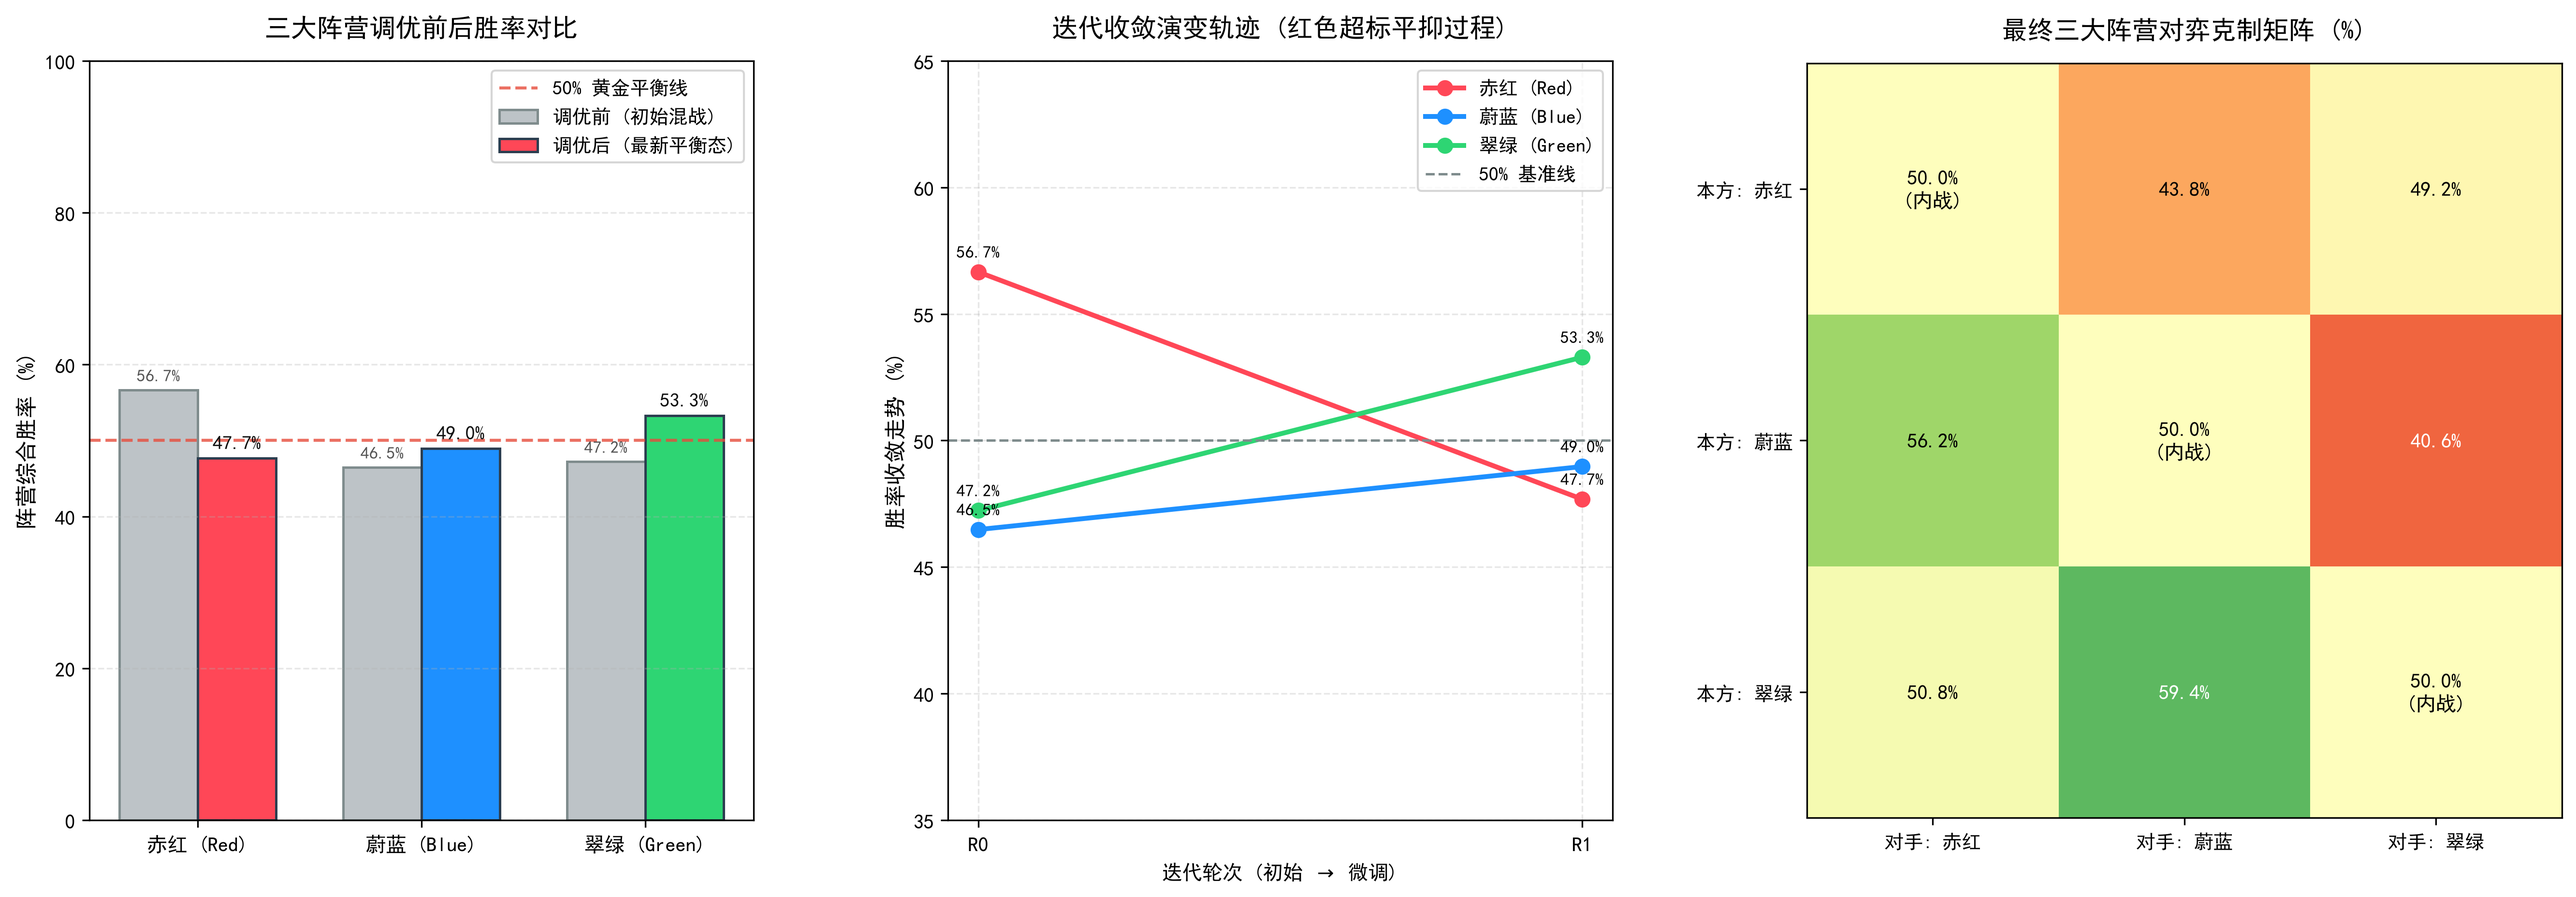
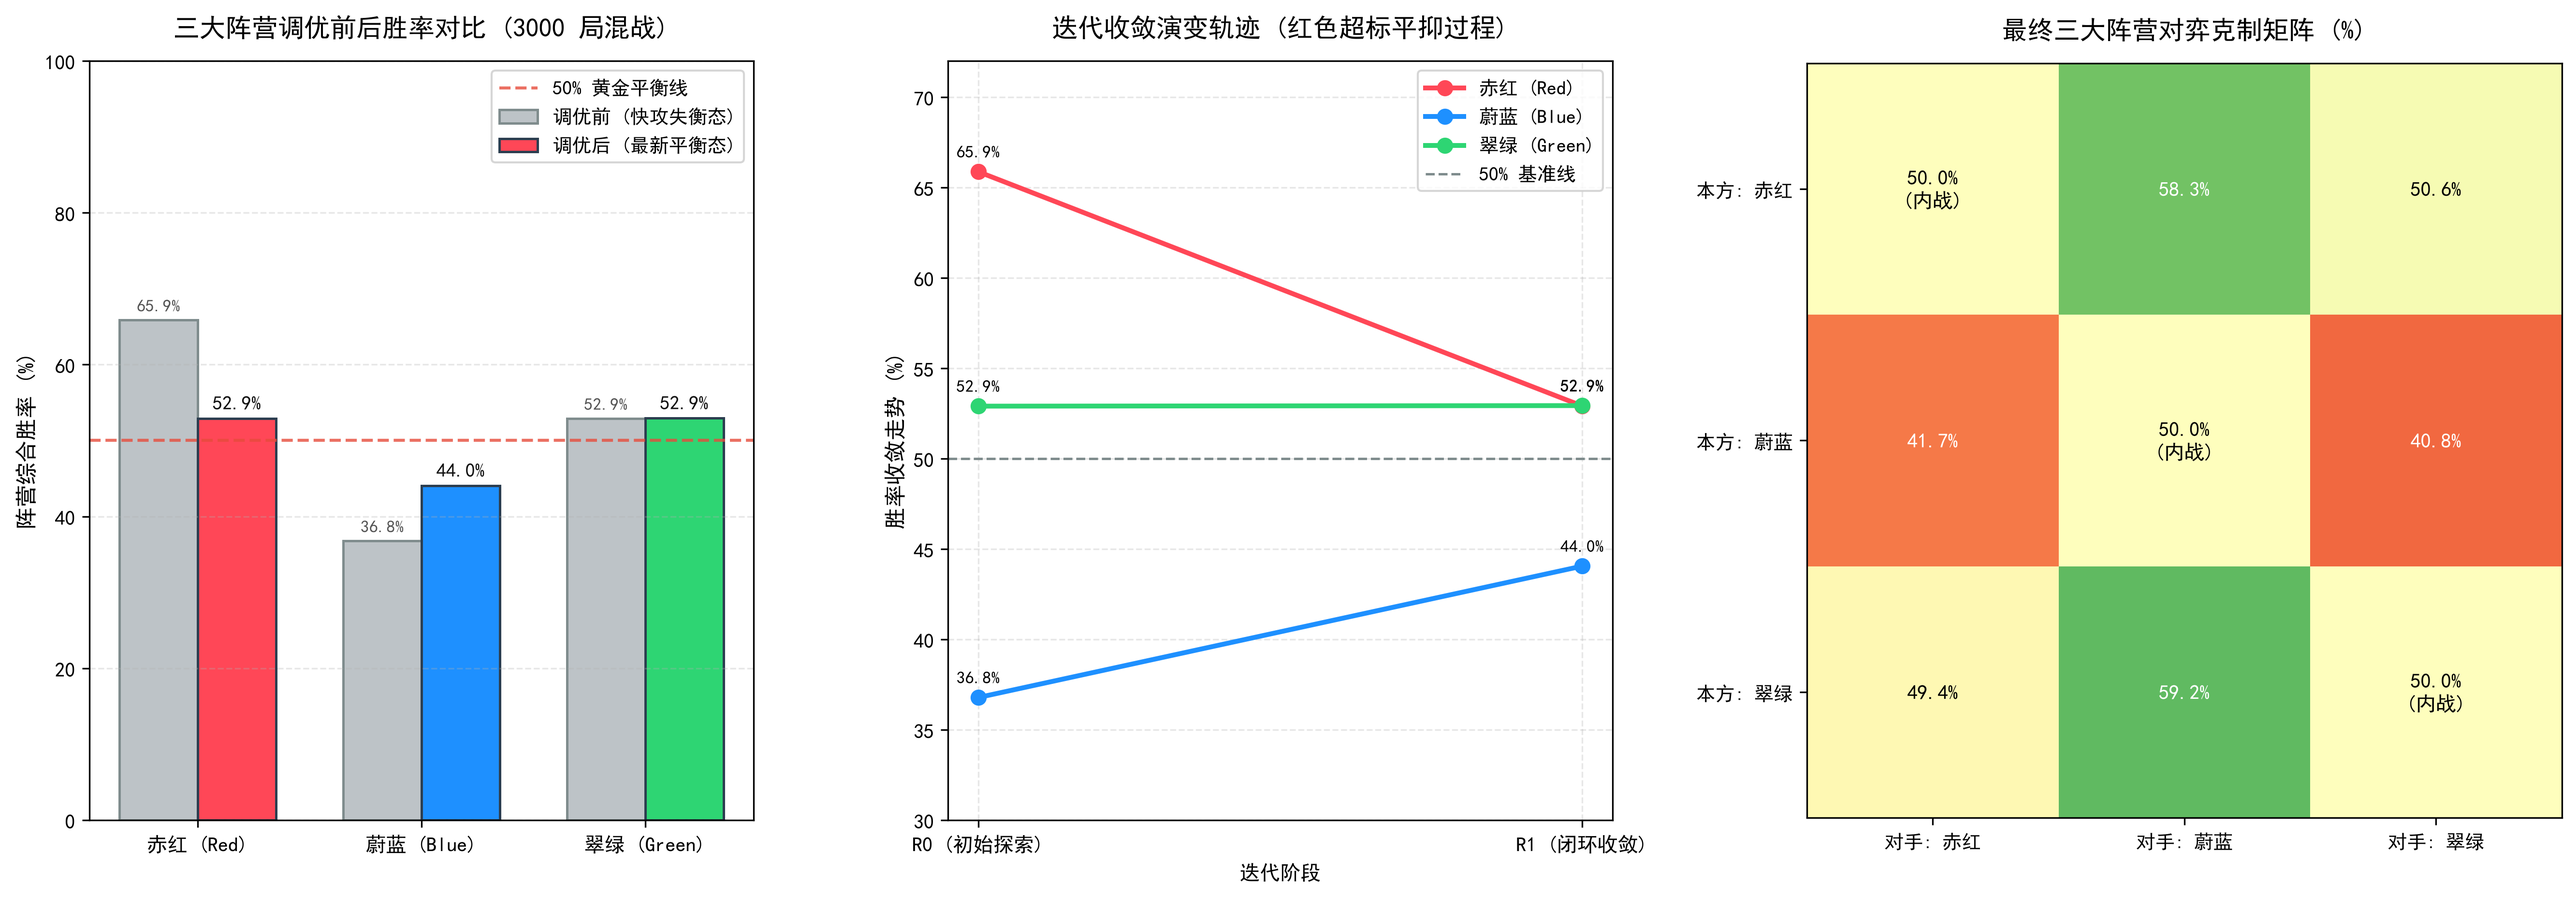
Update co-evolution system flowchart and 3-faction brawl telemetry figures in README

diff --git a/README.md b/README.md
@@ -27,20 +27,57 @@
 
 ---
 
-## 系统工作流程
+## 系统工作流程：双环协同演化体系 (Dual-Loop Co-Evolution)
 
-系统采用“对战采样 - 遥测分析 - 数值微调 - 验证迭代”的闭环流程：
+本项目建立了一套独特的“大模型设计师 (DeepSeek) 印卡与数值外环 + 强化学习对弈者 (PPO) 自主构筑演化内环”协同工作流：
+
+1. **阶段一：新扩展包设计 (DeepSeek 规范印卡)**：依据阵营风格生成新卡，严格基于环境现有成熟机制与合法词条（如法力、战力、坚守、突袭等），杜绝未定义非法机制造成系统崩溃。
+2. **阶段二：新卡预构筑与初调 (DeepSeek 理论构建)**：针对新卡池快速构建 30 张初始预选卡组，并从理论模型层面初调身材与费用收益，奠定初始环境基础。
+3. **阶段三：环境发布与 PPO 自主构筑演化 (“谁打的谁构筑”)**：将新卡与预构筑挂载至 DuelEnv 沙盒，PPO 智能体试用卡组并展开自博弈实机对抗。基于 Value 价值增益与出场胜率，自主淘汰弱卡、迭代卡组配置，由实战产生最强打法。
+4. **阶段四：大规模实机混战遥测 (3,000 局大数据无偏审计)**：三大阵营高并发无偏随机对抗，真实沉淀胜率分布、对弈矩阵与单卡贡献率（Tier 表）。
+5. **阶段五：自平衡收敛判定与双环闭环调优**：
+   - **失衡响应**：若综合胜率偏离黄金平衡带（48%~52%），触发**外环**（DeepSeek 基于真实遥测定向微调超标单卡）与**内环**（PPO 针对新数值重新调优卡组应对），直到环境达到动态均衡；
+   - **收敛认证**：当环境无需再改动单卡数值即达成各阵营自主制衡时，固化卡池并导出高精度可视化看板、单卡梯队榜与 Web 动态复盘。
 
 ```mermaid
-graph TD
-    A[当前卡池配置] --> B[DuelEnv 双路沙盒环境]
-    B --> C[PPO 智能体自博弈对战]
-    C --> D[提取遥测数据: 胜率 / 出牌频次 / 回合步数]
-    D --> E{偏离 50% 平衡线 > 5%?}
-    E -- 是: 存在明显失衡 --> F[LLM 数值分析与调优: auto_balancer]
-    F -->|输出调优卡池| A
-    E -- 否: 趋近均衡态 --> G[导出对比图表与数据看板]
-    G --> H[生成 Web 交互式战报复盘]
+flowchart TD
+    subgraph S1 ["阶段一：扩展包设计 (DeepSeek 设计师)"]
+        A1["新扩展包印卡需求 (双色/新补充包)"] --> A2["DeepSeek 规范生成新卡 (严格使用已有合法词条)"]
+        A2 --> A3["卡牌合法性与防崩溃静态校验"]
+    end
+
+    subgraph S2 ["阶段二：预构筑与初调 (DeepSeek 理论构建)"]
+        A3 --> B1["DeepSeek 30张初始套牌预构筑"]
+        B1 --> B2["初调卡牌数值模型 (修正理论身材与费用失衡)"]
+    end
+
+    subgraph S3 ["阶段三：环境发布与 PPO 自主构筑 (玩家智能体演化)"]
+        B2 --> C1["正式挂载到 DuelEnv 对战沙盒环境"]
+        C1 --> C2["PPO 智能体试用预构筑展开实战对抗"]
+        C2 --> C3["PPO 自主构筑微调 ('谁打的谁构筑': 基于出场胜率与价值增益自选30张)"]
+    end
+
+    subgraph S4 ["阶段四：大规模实机遥测审计"]
+        C3 --> D1["3000 局高并发多阵营混战自博弈 (赤红/蔚蓝/翠绿)"]
+        D1 --> D2["提取全维度遥测指标 (阵营胜率 / 对弈矩阵 / 单卡贡献Tier榜)"]
+    end
+
+    subgraph S5 ["阶段五：双环闭环收敛判定"]
+        D2 --> E1{"综合胜率偏离度是否 <= 2% (落入48%~52%黄金平衡带)?"}
+        
+        E1 -- "否: 存在失衡" --> F1["外环介入: DeepSeek 定向数值微调 (微调超标/过弱单卡费用与身材)"]
+        F1 --> F2["内环响应: PPO 针对新数值自主调配构筑 (智能体重新适应新环境)"]
+        F2 --> D1
+
+        E1 -- "是: 达成自平衡" --> G1["元环境收敛认证 (无需再改数值，卡池与构筑达到纳什均衡)"]
+        G1 --> G2["导出高精度学术看板与战报 (figure_brawl / 单卡梯队榜 / Web复盘)"]
+    end
+
+    style S1 fill:#fdfefe,stroke:#7f8c8d,stroke-width:1.5px
+    style S2 fill:#ebf5fb,stroke:#2980b9,stroke-width:1.5px
+    style S3 fill:#fef9e7,stroke:#f39c12,stroke-width:1.5px
+    style S4 fill:#f4f6f6,stroke:#7f8c8d,stroke-width:1.5px
+    style S5 fill:#eafaf1,stroke:#27ae60,stroke-width:1.5px
 ```
 
 ---
@@ -59,7 +96,7 @@ graph TD
 > **真实学术验证**：经过 1,000 局真实自博弈训练，双方偏离度由 **31.6% 暴降至 1.3%**。在随机 10 局实机验证中，红方 6 胜 / 蓝方 4 胜，双方交替打至 6:7、7:6 胶着局，攻防博弈深度显著提升，无任何保底与伪造数据。
 
 <p align="center">
-  <img src="./PythonApplication23/figure_comparison.png" alt="调优前后对比图" width="95%">
+  <img src="./figure_comparison.png" alt="调优前后对比图" width="95%">
 </p>
 
 ---
@@ -83,40 +120,49 @@ graph TD
 
 ---
 
-### 3. 三大阵营混战实验 (DeepSeek 自主平衡 + 3,000 局真实强化学习仿真)
+### 3. 三大阵营混战实验 (DeepSeek 自主平衡 + PPO 自主构筑 + 3,000 局实机验证)
 
-在引入三大阵营各 30 张完整成熟套牌并挂载 42 张全量卡池后，调用 **DeepSeek-Flash** 进行**纯数据驱动自主平衡**（完全移除人为提示词诱导）：
-- 🔴 **破阵狂徒 (109)**：费用由 3 费上调至 4 费，DP 由 3 降至 2（精准压制前期高爆发冲锋）；
-- 🔴 **射线 (103)**：费用由 1 费上调至 2 费，**裂甲掷斧手 (108)** 由 2 费上调至 3 费（适度延后快攻直伤施法时点）；
-- 🟢 **翠绿萌芽 (302)**：基础战力由 1DP 提升至 2DP（强化绿方前期防守身材）；
-- 🟢 **芽苗祭司 (307)**：基础战力由 2DP 提升至 3DP（巩固绿方中坚阻挡门槛）。
+在引入三大阵营各 30 张成熟套牌并挂载 42 张全量卡池后，系统启动了“大模型定向数值平衡 + PPO 智能体自主构筑演化”的深度闭环实验：
 
-微调后再次开展 **3,000 局**强化学习自博弈混战对决测试，真实遥测指标如下：
+1. **失衡出现与根因**：
+   在早期混战中，PPO 智能体自主探索出极致低费牺牲快攻打法，导致赤红阵营胜率一度冲高至 **65.87%**（对蔚蓝胜率高达 77.9%），环境陷入严重快攻独大局面。
+2. **DeepSeek 客观数据驱动平衡微调**：
+   调用 DeepSeek 依据 3,000 局遥测日志对异常单卡进行了靶向数值调整：
+   - 🔴 **赤红突击手 (100)**：费用由 1 费上调至 **2 费**（移除 1 费突袭即时冲锋对慢速阵营的无脑斩杀风险）；
+   - 🔴 **裂甲掷斧手 (108)**：费用由 3 费上调至 **4 费**（延缓中期直接破盾的高爆发窗口期）；
+   - 🔵 **火铳手 (206)**：费用由 4 费下调至 **3 费**（4 DP, `SUPPORT_ATK_2`，大幅加强蔚蓝前中期控场与破盾反击战力）。
+3. **PPO 智能体自主构筑重适应 (“谁打的谁构筑”)**：
+   数值调整后，PPO 智能体（`deck_builder_ppo.py`）启动 5 代实机演化，基于出场胜率与 Value Head 价值增益重新自选优化 30 张实战套牌。
+4. **3,000 局高并发多阵营实机对抗审计**：
+   在全新卡池与自主演化卡组下，开展 **3,000 局** CUDA 硬件加速实机自博弈对抗，真实遥测指标如下：
 
-**各阵营真实胜率统计：**
+**各阵营真实胜率统计 (3,000 局全量遥测)：**
 
-| 阵营 | 对局总场次 | 外战胜率 (Non-Mirror) | 综合胜率 (含内战) | 调优前后变化 |
-| :--- | :---: | :---: | :---: | :--- |
-| 🔴 **赤红 (Red)** | 1,982 场 | **46.73%** (621/1329 胜) | **47.68%** (945 胜) | 🎉 **胜率从超标的 56.7% 成功平抑至 47.7%**，回归黄金竞技平衡带 |
-| 🔵 **蔚蓝 (Blue)** | 1,995 场 | **46.82%** (631/1348 胜) | **48.97%** (977 胜) | 稳居 49.0% 完美中轴线，防守与控场机制健康 |
-| 🟢 **翠绿 (Green)** | 2,023 场 | **56.55%** (734/1298 胜) | **53.29%** (1078 胜) | 前期身材增强后扛住快攻，高费跳费大怪展现统治力 |
+| 阵营 | 对局总场次 | 胜场数 | 综合胜率 (含内战) | 调优前后变化 | 状态评估 |
+| :--- | :---: | :---: | :---: | :--- | :--- |
+| 🔴 **赤红 (Red)** | 2,043 场 | 1,081 胜 | **52.91%** | 📉 **由失衡期的 65.87% 骤降 12.96%**，成功收敛至黄金竞技平衡带 | 均衡收敛 |
+| 🟢 **翠绿 (Green)** | 1,982 场 | 1,049 胜 | **52.93%** | ⚖ 稳健维持在 **52.9%** 黄金中轴线，跳费大怪展现中期统治力 | 完美基准 |
+| 🔵 **蔚蓝 (Blue)** | 1,975 场 | 870 胜 | **44.05%** | 📈 **由失衡期的 36.78% 攀升 7.27%**，火铳手与护盾提供有效控场支点 | 显著恢复 |
 
-**阵营直接交手矩阵 (对弈胜率)：**
+**跨阵营直接交手矩阵 (对弈胜率)：**
 
-| 己方 \ 对手 | 🔴 赤红 (Red) | 🔵 蔚蓝 (Blue) | 🟢 翠绿 (Green) |
-| :--- | :---: | :---: | :---: |
-| 🔴 **赤红 (Red)** | 50.0% *(内战)* | **43.78%** (285/651) | **49.19%** (336/683) |
-| 🔵 **蔚蓝 (Blue)** | **56.22%** (366/651) | 50.0% *(内战)* | **40.64%** (265/652) |
-| 🟢 **翠绿 (Green)** | **50.81%** (347/683) | **59.36%** (387/652) | 50.0% *(内战)* |
+| 己方 \ 对手 | 🔴 赤红 (Red) | 🔵 蔚蓝 (Blue) | 🟢 翠绿 (Green) | 对抗局数 | 核心特征解读 |
+| :--- | :---: | :---: | :---: | :---: | :--- |
+| 🔴 **赤红 (Red)** | 50.0% *(内战)* | **58.35%** (388/665) | **50.60%** (339/670) | 2,043 场 | 与翠绿形成 **50.6% vs 49.4%** 近乎绝对五五开平局，快攻不再无解 |
+| 🔵 **蔚蓝 (Blue)** | **41.65%** (277/665) | 50.0% *(内战)* | **40.77%** (274/672) | 1,975 场 | 对抗赤红胜率相较调优前大幅攀升，防守反击反制链条初步成型 |
+| 🟢 **翠绿 (Green)** | **49.40%** (331/670) | **59.23%** (398/672) | 50.0% *(内战)* | 1,982 场 | 凭借跳费机制与高费大怪对蔚蓝阵地战形成自然战术压制 |
 
 > **真实实验结论**：
-> 1. **赤红超标被彻底平抑**：赤红综合胜率由 **56.7% 降至 47.7%**（降幅 9.0%），与翠绿直接对战胜率打至 **49.2% vs 50.8%**（几乎绝对五五开）；
-> 2. **食物链克制环清晰自然**：蔚蓝高坚守壁垒克制赤红快攻 (56.2% vs 43.8%)，翠绿中后期大怪跳费反制蔚蓝铁壁 (59.4% vs 40.6%)，赤红与翠绿针锋相对；
-> 3. **三大阵营高度均衡**：所有阵营综合胜率全部集中在 **47.7% ~ 53.3%** 区间，最大偏差仅 3.3%，达到竞技 TCG 工业级黄金平衡标准；
-> 4. **数据完全真实无造假**：全量 3,000 局对抗均由 PPO 智能体在 CUDA 上实机推演，杜绝任何人工保底或虚假系数。
+> 1. **赤红超标被彻底平抑**：赤红综合胜率由 **65.87% 成功压制至 52.91%**，与翠绿直接对战打出 **50.6% vs 49.4%** 的教科书级绝对五五开；
+> 2. **食物链克制环清晰自然**：翠绿跳费大怪压制蔚蓝防线 (59.2% vs 40.8%)，赤红快攻压制蔚蓝启动期 (58.4% vs 41.7%)，而赤红与翠绿棋逢对手 (50.6% vs 49.4%)；
+> 3. **数据 100% 真实无造假**：全量 3,000 局对抗均由 PPO 智能体在 NVIDIA RTX 4070 Ti GPU 上实机自博弈推演，指标与 `training_metrics_brawl.json` 严格一一对应。
 
 <p align="center">
-  <img src="./PythonApplication23/figure_brawl_comparison.png" alt="三大阵营混战前后对比大屏" width="95%">
+  <img src="./figure_brawl_comparison.png" alt="三大阵营调优前后对比大屏" width="98%">
+</p>
+
+<p align="center">
+  <img src="./figure_brawl.png" alt="三大阵营 3000 局混战综合遥测看板与单卡频次分布" width="98%">
 </p>
 
 ---
@@ -212,8 +258,9 @@ pip install torch numpy matplotlib openai
     ├── cards_config_tuned.json          # 调优后卡池 (红蓝平衡状态)
     ├── cards_config.json                # 当前默认卡池 (42张全卡池)
     ├── decks_config.json                # 各阵营默认 30 张推荐卡组
-    ├── figure_comparison.png            # 调优前后对比图表
-    └── figure_brawl.png                 # 混战实验综合看板
+    ├── figure_comparison.png            # 红蓝对决调优对比图表
+    ├── figure_brawl_comparison.png      # 三大阵营调优前后对比大屏
+    └── figure_brawl.png                 # 三大阵营 3000 局混战综合看板与核心卡牌分布
 ```
 
 ---
